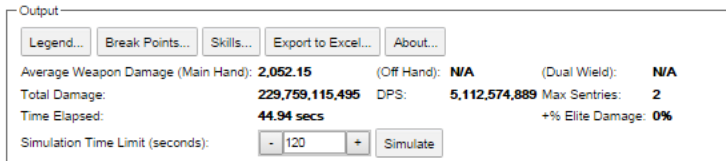
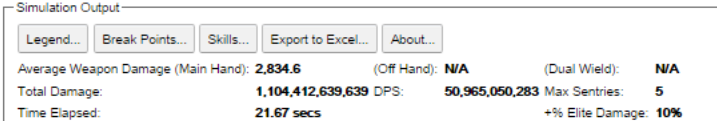
Fixed Vengeance and Legacy of Nightmares buffs to also apply to sentries and pets

diff --git a/war/help.html b/war/help.html
@@ -19,6 +19,7 @@
 <li><a href="#paragon">Paragon</a></li>
 <li><a href="#saveLoad">Save/Load</a></li>
 <li><a href="#compare">Compare Builds</a></li>
+<li><a href="#simulate">Simulate</a></li>
 <li><a href="#activeSkills">Active Skills</a></li>
 <li><a href="#passives">Passives</a></li>
 <li><a href="#situational">Situational</a></li>
@@ -225,6 +226,11 @@ There are 2 buttons available for this option:
 <li><b>Current</b>: Select this option to place all current form data in the text block. You may then copy (e.g. CTRL-C or right-click/copy) the text and paste (e.g. CTRL-V or right click/paste) into another application.</li>
 <li><b>Restore</b>: Select this option to restore form data from the text block. Prior to selecting this option, you should paste previously saved text into the text block.</li>
 </ul>
+<hr/>
+<h2 id="simulate">Simulate</h2>
+<img src="images/help/simulate.png"></img>
+<p/>
+This panel allows you to configure the length of simulated time to run the damage simulation. Click the "simulate" button to start the simulation.
 <hr/>
 <h2 id="compare">Compare Builds</h2>
 <img src="images/help/compare.png"></img>

diff --git a/src/com/dawg6/web/dhcalc/client/MainPanel.java b/src/com/dawg6/web/dhcalc/client/MainPanel.java
@@ -518,6 +518,35 @@ public class MainPanel extends BasePanel {
 		CaptionPanel captionPanel = new CaptionPanel("Compare Builds");
 		verticalPanel_2.add(captionPanel);
 
+		CaptionPanel cptnpnlNewPanel2 = new CaptionPanel("Simulate");
+		verticalPanel_2.add(cptnpnlNewPanel2);
+
+		FlexTable simTable = new FlexTable();
+		cptnpnlNewPanel2.add(simTable);
+		
+		Label l1 = new Label("Simulation Time Limit (seconds):", false);
+		simTable.setWidget(0, 0, l1);
+		
+		timeLimit = new NumberSpinner();
+		timeLimit.setMin(1);
+		timeLimit.setMax(FiringData.MAX_DURATION);
+		timeLimit.setVisibleLength(5);
+		timeLimit.setTitle("Maximum time (in simulation seconds) to let the simulation run");
+		simTable.setWidget(0,1,timeLimit);
+		
+		Button calcButton = new Button("Simulate");
+		calcButton.setTitle("Press to run damage simulation");
+		simTable.setWidget(0, 2, calcButton);
+		calcButton.addClickHandler(new ClickHandler() {
+
+			@Override
+			public void onClick(ClickEvent event) {
+				Service.getInstance().checkVersion(null);
+				calculate();
+			}
+		});
+
+
 		compareTable = new FlexTable();
 		captionPanel.setContentWidget(compareTable);
 		compareTable.setCellPadding(2);
@@ -760,7 +789,7 @@ public class MainPanel extends BasePanel {
 		
 		gemPanel.addChangeHandler(changeHandler);
 
-		CaptionPanel cptnpnlNewPanel = new CaptionPanel("Output");
+		CaptionPanel cptnpnlNewPanel = new CaptionPanel("Simulation Output");
 		panel.add(cptnpnlNewPanel);
 		cptnpnlNewPanel.setWidth("");
 
@@ -773,10 +802,6 @@ public class MainPanel extends BasePanel {
 		horizontalPanel_19
 				.setVerticalAlignment(HasVerticalAlignment.ALIGN_MIDDLE);
 		horizontalPanel_19.setSpacing(5);
-
-		Button calcButton = new Button("New button");
-		calcButton.setText("Simulate");
-		calcButton.setTitle("Press to run damage simulation");
 
 		Button legendButton = new Button("New button");
 		legendButton.setText("Legend...");
@@ -844,17 +869,6 @@ public class MainPanel extends BasePanel {
 		eliteDamage = new Label("00000");
 		outputHeader.setWidget(3, 5, eliteDamage);
 		eliteDamage.setStyleName("boldText");
-
-		Label l1 = new Label("Simulation Time Limit (seconds):", false);
-		outputHeader.setWidget(4, 0, l1);
-		
-		timeLimit = new NumberSpinner();
-		timeLimit.setMin(1);
-		timeLimit.setMax(FiringData.MAX_DURATION);
-		timeLimit.setVisibleLength(5);
-		outputHeader.setWidget(4,1,timeLimit);
-		
-		outputHeader.setWidget(4, 2, calcButton);
 
 		Button bpButton = new Button("New button");
 		bpButton.setText("Break Points...");
@@ -1313,15 +1327,6 @@ public class MainPanel extends BasePanel {
 		Button aboutButton = new Button("New button");
 		aboutButton.setText("About...");
 		horizontalPanel_19.add(aboutButton);
-
-		calcButton.addClickHandler(new ClickHandler() {
-
-			@Override
-			public void onClick(ClickEvent event) {
-				Service.getInstance().checkVersion(null);
-				calculate();
-			}
-		});
 
 		aboutButton.addClickHandler(new ClickHandler() {
 

diff --git a/src/com/dawg6/web/dhcalc/shared/calculator/DamageFunction.java b/src/com/dawg6/web/dhcalc/shared/calculator/DamageFunction.java
@@ -762,17 +762,19 @@ public class DamageFunction {
 							
 							if (isPlayer) {
 								dlist.add(DamageMultiplier.S2);
-							}
-							
-							if (isPlayer) {
 								dlist.add(DamageMultiplier.VenBuff);
 								dlist.add(DamageMultiplier.LoN);
 							} else if (isSentry) {
+								dlist.add(DamageMultiplier.LoN);
 								dlist.add(DamageMultiplier.M4);
+								dlist.add(DamageMultiplier.VenBuff);
 							}
 							
 							if ((skill != ActiveSkill.Companion)) {
 								dlist.add(DamageMultiplier.Ambush);
+							} else {
+								dlist.add(DamageMultiplier.VenBuff);
+								dlist.add(DamageMultiplier.LoN);
 							}
 
 							if (skill != null) {
